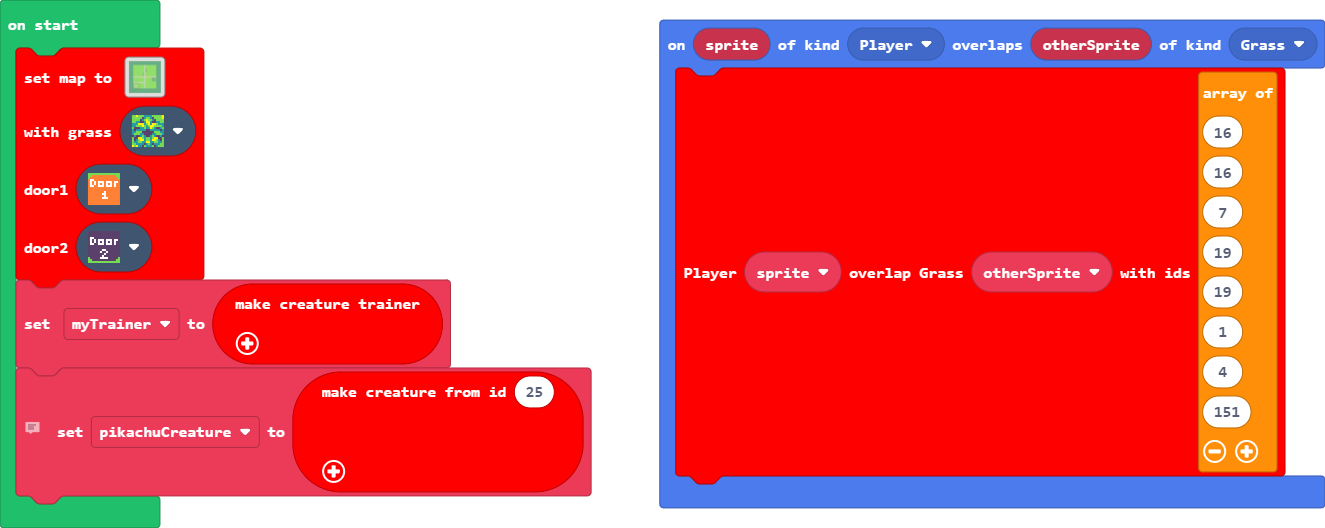
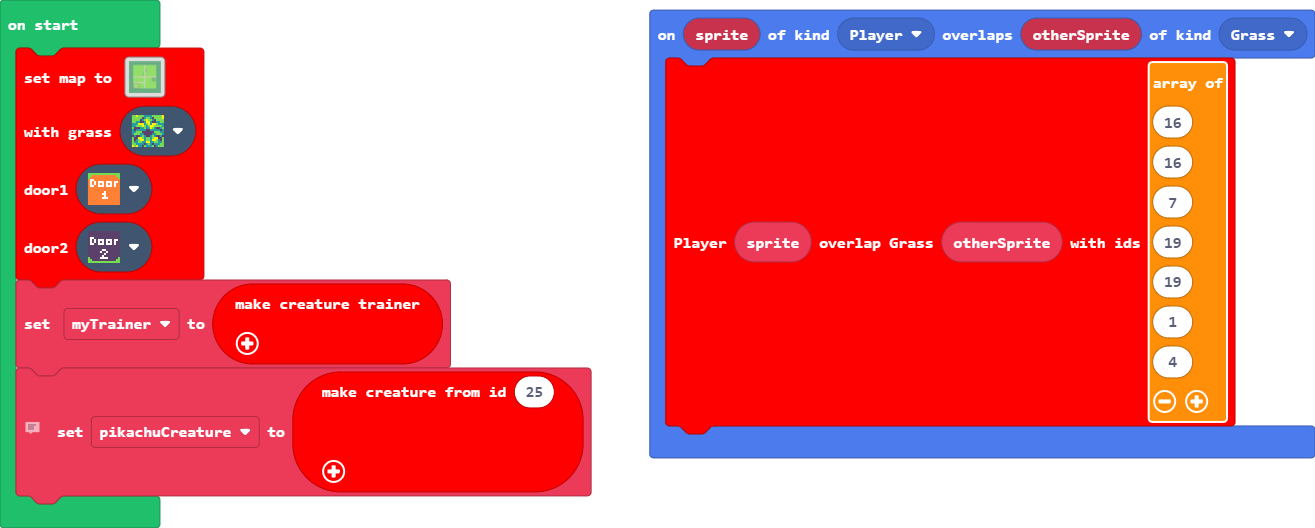
Update main.blocks, main.ts, tilemap.g.jres, tilemap.g.ts

diff --git a/tilemap.g.ts b/tilemap.g.ts
@@ -160,6 +160,25 @@ namespace myTiles {
 2222222222222222222222222222222222222222222222222222222222222222
 2222222222222222222222222222222222222222222222222222222222222222
 `, [myTiles.transparency16,sprites.castle.tileGrass2,myTiles.tile1,myTiles.tile2,sprites.castle.tilePath4,sprites.castle.tilePath6,sprites.castle.tilePath5,sprites.castle.tilePath2,sprites.castle.tilePath8,sprites.castle.tileGrass1,myTiles.tile3,myTiles.tile4,myTiles.tile5], TileScale.Sixteen);
+            case "level6":
+            case "level6":return tiles.createTilemap(hex`1000100000000000000000000000000000000000000000000000000000000000000000000000000000000000000000000000000000000000000000000000000000000000000000000000000000000000000000000000000000000000000000000000000000000000000000000000000000000000000000000000000000000000000000000000000000000000000000000000000000000000000000000000000000000000000000000000000000000000000000000000000000000000000000000000000000000000000000000000000000000000000000000000000000000000000000000000000000000000000000000000000000000000000000000000000000000000`, img`
+. . . . . . . . . . . . . . . . 
+. . . . . . . . . . . . . . . . 
+. . . . . . . . . . . . . . . . 
+. . . . . . . . . . . . . . . . 
+. . . . . . . . . . . . . . . . 
+. . . . . . . . . . . . . . . . 
+. . . . . . . . . . . . . . . . 
+. . . . . . . . . . . . . . . . 
+. . . . . . . . . . . . . . . . 
+. . . . . . . . . . . . . . . . 
+. . . . . . . . . . . . . . . . 
+. . . . . . . . . . . . . . . . 
+. . . . . . . . . . . . . . . . 
+. . . . . . . . . . . . . . . . 
+. . . . . . . . . . . . . . . . 
+. . . . . . . . . . . . . . . . 
+`, [myTiles.transparency16], TileScale.Sixteen);
         }
         return null;
     })

diff --git a/main.ts b/main.ts
@@ -11,8 +11,7 @@ sprites.onOverlap(SpriteKind.Player, SpriteKind.Grass, function (sprite, otherSp
     19,
     19,
     1,
-    4,
-    151
+    4
     ], sprite, otherSprite)
 })
 creatures.setCreatureMap(
